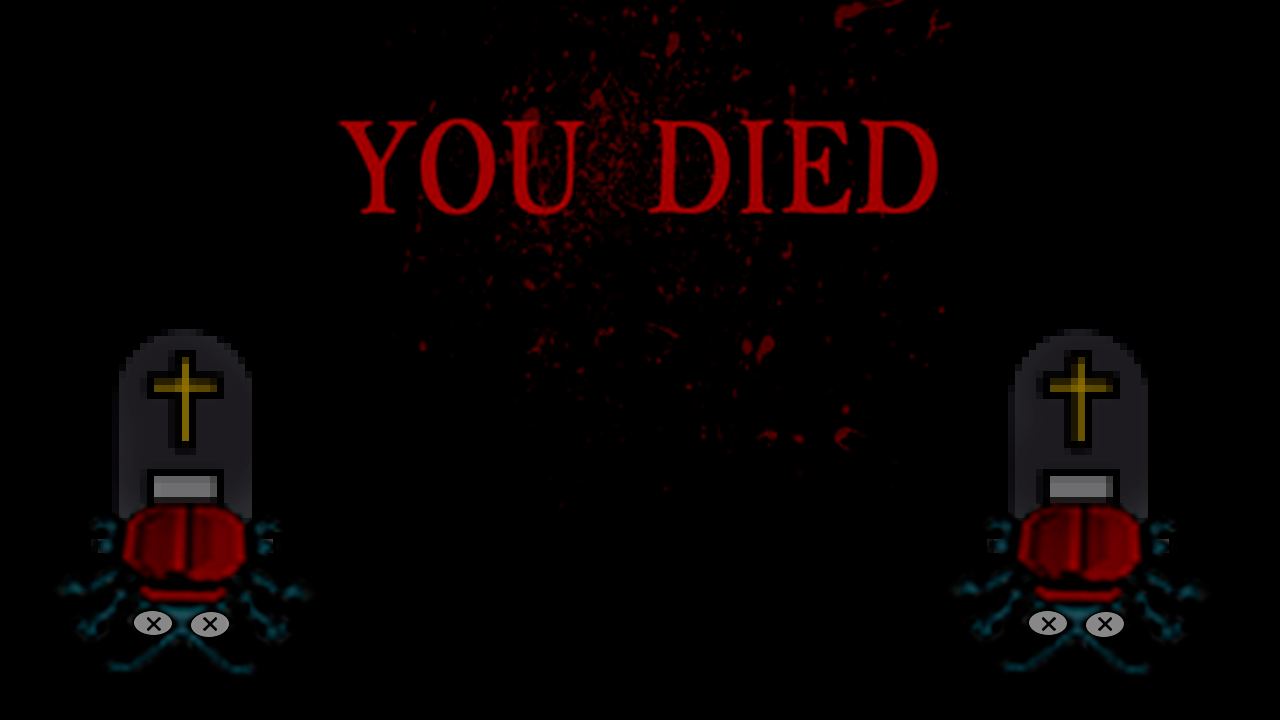
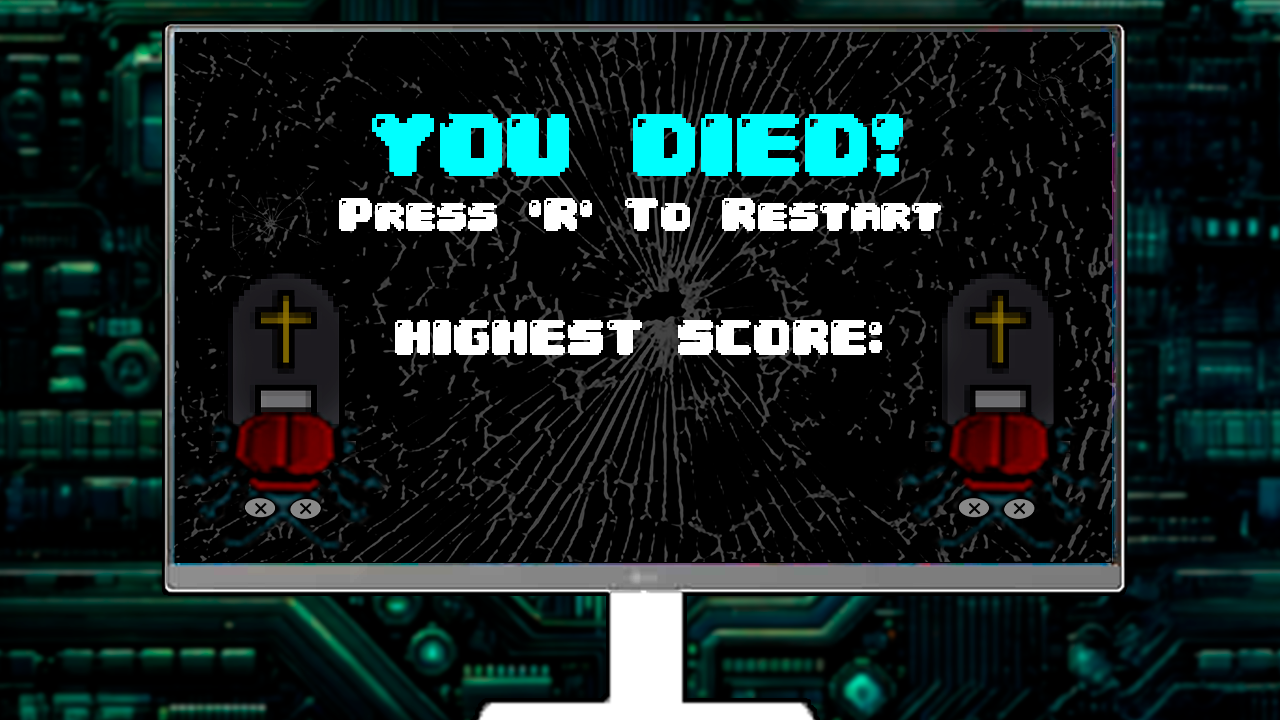
updating GUI, added fall motion when collided

diff --git a/FlappyBug/FlappyBug/States/PlayingState.cs b/FlappyBug/FlappyBug/States/PlayingState.cs
@@ -13,22 +13,21 @@ public class PlayingState : AbstractState
     private Texture2D _motherboardBackground;
     private Texture2D _buis;
     private Vector2 achtergrondPositie = Vector2.Zero;
-    private Vector2 achtergrond2Positie = new Vector2(1792, 0);
-    private const int bewegingsSnelheid = 5;
+    private Vector2 achtergrond2Positie;
     private Vector2 bugpixelPositie = Vector2.Zero;
+    private const int bewegingsSnelheid = 5;
     private float verticalVelocity = 0f;  // Snelheid in de verticale richting
     private const float gravity = 0.45f;  // Zwaartekracht kracht
     private const float springHoogte = -8f;  // De kracht van het springen
     private bool isSpatiebarIngedrukt = false;
     private TimeSpan _momentLaatsteBuisAangemaakt;
     private readonly int uitersteYPositieWaarde;
-
     private TimeSpan tijdVerstreken = TimeSpan.Zero; //lokale timer die alleen telt wanneer game niet gepauzeerd is
-
     private int score = 0;
     private bool _scoreUpdated = false;
-
-    private bool _isGepauzeerd = false;
+    private bool isDood = false; // Houdt bij of de speler dood is
+    private TimeSpan doodTimer = TimeSpan.Zero; // Timer voor de valanimatie
+    private readonly TimeSpan doodAnimatieDuur = TimeSpan.FromSeconds(1); // Duur van de valanimatie
 
     public PlayingState(Game1 spel) : base(spel)
     {
@@ -36,6 +35,7 @@ public class PlayingState : AbstractState
         _buis = spel.Textures["BuisTogether"];
         _bugpixel = spel.Textures["BugPixel"];
         _motherboardBackground = spel.Textures["MotherboardBackground"];
+        achtergrond2Positie = new Vector2(_motherboardBackground.Width, 0);
     }
 
     public override void Draw(GameTime gameTime)
@@ -43,17 +43,36 @@ public class PlayingState : AbstractState
         spel.GraphicsDevice.Clear(Color.Black);
         spel.SpriteBatch.Draw(_motherboardBackground, achtergrond2Positie, Color.White);
         spel.SpriteBatch.Draw(_motherboardBackground, achtergrondPositie, Color.White);
-        spel.SpriteBatch.Draw(_bugpixel, bugpixelPositie, Color.White);
+
 
         foreach (var buisPositie in _buisPosities)
         {
             spel.SpriteBatch.Draw(_buis, buisPositie, Color.White);
-        }
-        spel.SpriteBatch.DrawString(spel.Font, score.ToString(), Vector2.Zero, Color.White);
+        }        
+        spel.SpriteBatch.Draw(_bugpixel, bugpixelPositie, Color.White);
+        spel.SpriteBatch.DrawString(spel.Font, score.ToString(), new Vector2(spel.Graphics.PreferredBackBufferWidth / 2, 50), Color.White);
     }
 
     public override void Update(GameTime gameTime)
     {
+        if (isDood)
+        {
+            // Voer de valanimatie uit
+            verticalVelocity += gravity; // Versnel de val door zwaartekracht
+            bugpixelPositie.Y += verticalVelocity;
+
+            // Tel de tijd voor de valanimatie
+            doodTimer += gameTime.ElapsedGameTime;
+
+            // Ga naar de GameoverState na de animatie
+            if (doodTimer >= doodAnimatieDuur)
+            {
+                spel.ChangeState(new GameoverState(spel));
+            }
+
+            return; // Stop verdere updates als de speler dood is
+        }
+
         if (Keyboard.GetState().IsKeyDown(Keys.Escape))
         {
             spel.ChangeState(new PausedState(spel, this)); // pauzeer
@@ -65,6 +84,14 @@ public class PlayingState : AbstractState
             bugpixelPositie = new Vector2(spel.Graphics.PreferredBackBufferWidth / 4, spel.Graphics.PreferredBackBufferHeight / 2 - _bugpixel.Height);
         }
 
+        IntroduceerZwaarteKracht(); // zwaartekracht en springen
+        BeweegAchtergrond();
+        BuizenController(gameTime);
+
+    }
+
+    public void BeweegAchtergrond()
+    {
         achtergrondPositie.X -= bewegingsSnelheid;
 
         achtergrond2Positie.X -= bewegingsSnelheid;
@@ -78,7 +105,87 @@ public class PlayingState : AbstractState
         {
             achtergrond2Positie.X = _motherboardBackground.Width;
         }
+    }
+    private void BuizenController(GameTime gt)
+    {
+        if ((tijdVerstreken - _momentLaatsteBuisAangemaakt).TotalSeconds > 1.5)
+        {
+            MaakBuizen(gt);
+        }
+        VerplaatsBuizen();
+        VerwerkBotsing();
+        VerwerkScore();
+        _buisPosities.RemoveAll(b => b.X < -_buis.Width);
+    }
 
+    private void MaakBuizen(GameTime gt)
+    {
+        Random rnd = new();
+        Vector2 nieuweBuisPositie = new Vector2(
+            spel.Graphics.PreferredBackBufferWidth,
+            (-_buis.Height / 2) + (spel.Graphics.PreferredBackBufferHeight / 2) + rnd.Next(-uitersteYPositieWaarde, uitersteYPositieWaarde) //buis komt eerst midden op het scherm en verplaatst zich dan naar boven of onder
+        );
+        _buisPosities.Add(nieuweBuisPositie);
+        _momentLaatsteBuisAangemaakt = tijdVerstreken;
+    }
+    private void VerplaatsBuizen()
+    {
+        for (int i = 0; i < _buisPosities.Count; i++)
+        {
+            _buisPosities[i] = _buisPosities[i] with { X = _buisPosities[i].X - bewegingsSnelheid };
+        }
+    }
+    private void VerwerkBotsing()
+    {
+        Rectangle bugRechthoek = new(
+            (int)bugpixelPositie.X, (int)bugpixelPositie.Y,
+            _bugpixel.Width, _bugpixel.Height
+        );
+
+        for (int i = 0; i < _buisPosities.Count; i++)
+        {
+            Rectangle buisRechthoekBovenkant = new(
+                (int)_buisPosities[i].X, (int)_buisPosities[i].Y,
+                _buis.Width, _buis.Height / 2 - 90
+            );
+            Rectangle buisRechthoekOnderkant = new(
+                (int)_buisPosities[i].X, (int)_buisPosities[i].Y + _buis.Height / 2 + 90,
+                _buis.Width, _buis.Height
+            );
+            if (bugRechthoek.Intersects(buisRechthoekBovenkant) || bugRechthoek.Intersects(buisRechthoekOnderkant))
+            {
+                if (score > spel.HighScore)
+                {
+                    spel.HighScore = score;
+                }
+
+                // Activeer de dood toestand
+                isDood = true;
+                verticalVelocity = 0f; // Reset de verticale snelheid
+                doodTimer = TimeSpan.Zero; // Reset de dood timer
+            }
+        }
+    }
+    private void VerwerkScore()
+    {
+        if (_buisPosities.Count > 0)
+        {
+            if (bugpixelPositie.X > _buisPosities[0].X + _buis.Width && !_scoreUpdated)
+            {
+                score += 1;
+                _scoreUpdated = true; // voorkomen dat score meerdere keren wordt verhoogd
+            }
+
+            // reset wanneer de bugpixel weer in de buurt van de buis komt
+            if (bugpixelPositie.X <= _buisPosities[0].X + _buis.Width)
+            {
+                _scoreUpdated = false;
+            }
+        }
+    }
+
+    public void IntroduceerZwaarteKracht()
+    {
         // Controleer of we springen als de spatiebalk ingedrukt is
         if (Keyboard.GetState().IsKeyDown(Keys.Space) && !isSpatiebarIngedrukt && (bugpixelPositie.Y > _bugpixel.Height))
         {
@@ -116,83 +223,5 @@ public class PlayingState : AbstractState
             verticalVelocity = 0f;  // Stop met vallen als de bugpixel de onderkant bereikt
         }
 
-        BuizenController(gameTime);
-
-    }
-    
-
-    private void BuizenController(GameTime gt)
-    {
-        if ((tijdVerstreken - _momentLaatsteBuisAangemaakt).TotalSeconds > 1.5)
-        {
-            MaakBuizen(gt);
-        }
-        VerplaatsBuizen();
-        VerwerkBotsing();
-        VerwerkScore();
-        _buisPosities.RemoveAll(b => b.X < -_buis.Width);
-    }
-
-    private void MaakBuizen(GameTime gt)
-    {
-        Random rnd = new();
-        Vector2 nieuweBuisPositie = new Vector2(
-            spel.Graphics.PreferredBackBufferWidth,
-            (-_buis.Height / 2) + (spel.Graphics.PreferredBackBufferHeight / 2) + rnd.Next(-uitersteYPositieWaarde, uitersteYPositieWaarde) //buis komt eerst midden op het scherm en verplaatst zich dan naar boven of onder
-        );
-        _buisPosities.Add(nieuweBuisPositie);
-        _momentLaatsteBuisAangemaakt = tijdVerstreken;
-    }
-    private void VerplaatsBuizen()
-    {
-        for (int i = 0; i < _buisPosities.Count; i++)
-        {
-            _buisPosities[i] = _buisPosities[i] with { X = _buisPosities[i].X - bewegingsSnelheid };
-        }
-    }
-    private void VerwerkBotsing()
-    {
-
-        Rectangle bugRechthoek = new(
-            (int)bugpixelPositie.X, (int)bugpixelPositie.Y,
-            _bugpixel.Width, _bugpixel.Height
-        );
-
-        for (int i = 0; i < _buisPosities.Count; i++)
-        {
-            Rectangle buisRechthoekBovenkant = new(
-                (int)_buisPosities[i].X, (int)_buisPosities[i].Y,
-                _buis.Width, _buis.Height / 2 - 90
-            );
-            Rectangle buisRechthoekOnderkant = new(
-                (int)_buisPosities[i].X, (int)_buisPosities[i].Y + _buis.Height / 2 + 90,
-                _buis.Width, _buis.Height
-            );
-            if (bugRechthoek.Intersects(buisRechthoekBovenkant) || bugRechthoek.Intersects(buisRechthoekOnderkant))
-            {
-                if (score > spel.HighScore)
-                {
-                    spel.HighScore = score;
-                }
-                spel.ChangeState(new GameoverState(spel));
-            }
-        }
-    }
-    private void VerwerkScore()
-    {
-        if (_buisPosities.Count > 0)
-        {
-            if (bugpixelPositie.X > _buisPosities[0].X + _buis.Width && !_scoreUpdated)
-            {
-                score += 1;
-                _scoreUpdated = true; // voorkomen dat score meerdere keren wordt verhoogd
-            }
-
-            // reset wanneer de bugpixel weer in de buurt van de buis komt
-            if (bugpixelPositie.X <= _buisPosities[0].X + _buis.Width)
-            {
-                _scoreUpdated = false;
-            }
-        }
     }
 }

diff --git a/FlappyBug/FlappyBug/States/StartscreenState.cs b/FlappyBug/FlappyBug/States/StartscreenState.cs
@@ -4,25 +4,17 @@ using Microsoft.Xna.Framework;
 using Microsoft.Xna.Framework.Graphics;
 using Microsoft.Xna.Framework.Input;
 
-public class StartscreenState : AbstractState
+public class StartscreenState(Game1 spel) : AbstractState(spel)
 {
-    private Vector2 _startscreenPositie = Vector2.Zero;
     private float rotationAngle;
-    private Vector2 spritePosition;
     private Vector2 spriteOrigin;
-
-    public StartscreenState(Game1 spel) : base(spel)
-    {
-
-    }
 
     public override void Draw(GameTime gameTime)
     {
         spel.GraphicsDevice.Clear(Color.Black);
-        spel.SpriteBatch.Draw(spel.Textures["BugPixel"], new Vector2(spel.Graphics.PreferredBackBufferWidth / 2, spel.Graphics.PreferredBackBufferHeight / 2), null, Color.White, rotationAngle, spriteOrigin, 1.0f, SpriteEffects.None, 0f); ;
-        spel.SpriteBatch.DrawString(spel.Font, "FLAPPY BUG", new Vector2(spel.Graphics.PreferredBackBufferWidth / 3, spel.Graphics.PreferredBackBufferHeight / 2), Color.DarkOrange);
-        spel.SpriteBatch.DrawString(spel.Font, "PRESS ENTER BUTTON", new Vector2(spel.Graphics.PreferredBackBufferWidth / 3, (spel.Graphics.PreferredBackBufferHeight / 2) + 50), Color.DarkOrange);
-        spel.SpriteBatch.DrawString(spel.Font, "HIGHSCORE " + spel.HighScore.ToString(), new Vector2(spel.Graphics.PreferredBackBufferWidth / 3, (spel.Graphics.PreferredBackBufferHeight / 2) + 100), Color.DarkOrange);
+        spel.SpriteBatch.Draw(spel.Textures["StartBackground"], Vector2.Zero, Color.White);
+        spel.SpriteBatch.Draw(spel.Textures["BugPixel"], new Vector2(spel.Graphics.PreferredBackBufferWidth / 3 * 2, spel.Graphics.PreferredBackBufferHeight / 6), null, Color.White, rotationAngle, spriteOrigin, 1.0f, SpriteEffects.None, 0f); ;
+        spel.SpriteBatch.DrawString(spel.Font, spel.HighScore.ToString(), new Vector2(792, 510), Color.White);
     }
 
     public override void Update(GameTime gameTime)

diff --git a/FlappyBug/FlappyBug/States/PausedState.cs b/FlappyBug/FlappyBug/States/PausedState.cs
@@ -3,20 +3,16 @@ using FlappyBug.States;
 using Microsoft.Xna.Framework;
 using Microsoft.Xna.Framework.Input;
 
-public class PausedState : AbstractState
+public class PausedState(Game1 spel, PlayingState playingState) : AbstractState(spel)
 {
-
-    private PlayingState _previousState;
-    public PausedState(Game1 spel, PlayingState playingState) : base(spel)
-    {
-        _previousState = playingState;
-    }
+    private Color _stringColor = new Color(0, 255, 255);
+    private PlayingState _previousState = playingState;
 
     public override void Draw(GameTime gameTime)
     {
-        spel.SpriteBatch.Draw(spel.Textures["StartBackground"], Vector2.Zero, Color.White);
-        spel.SpriteBatch.DrawString(spel.Font, "PAUSED", new Vector2(spel.Graphics.PreferredBackBufferWidth / 3, spel.Graphics.PreferredBackBufferHeight / 2), Color.DarkOrange);
-        spel.SpriteBatch.DrawString(spel.Font, "PRESS ENTER BUTTON TO CONTINUE", new Vector2(spel.Graphics.PreferredBackBufferWidth / 3, (spel.Graphics.PreferredBackBufferHeight / 2) + 50), Color.DarkOrange);
+        _previousState.Draw(gameTime);
+        spel.SpriteBatch.DrawString(spel.Font, "PAUSED", new Vector2(500, 300), _stringColor);
+        spel.SpriteBatch.DrawString(spel.Font, "PRESS \'ENTER\' TO CONTINUE", new Vector2(250, 350), _stringColor);
     }
 
     public override void Update(GameTime gameTime)

diff --git a/FlappyBug/FlappyBug/States/GameoverState.cs b/FlappyBug/FlappyBug/States/GameoverState.cs
@@ -3,22 +3,19 @@ using FlappyBug.States;
 using Microsoft.Xna.Framework;
 using Microsoft.Xna.Framework.Input;
 
-public class GameoverState : AbstractState
+public class GameoverState(Game1 spel) : AbstractState(spel)
 {
-    public GameoverState(Game1 spel) : base(spel)
-    {
-    }
-
     public override void Draw(GameTime gameTime)
     {
-        spel.SpriteBatch.Draw(spel.Textures["BugDead"], Vector2.Zero, Color.White);       
+        spel.SpriteBatch.Draw(spel.Textures["BugDead"], Vector2.Zero, Color.White);
+        spel.SpriteBatch.DrawString(spel.Font, spel.HighScore.ToString(), new Vector2(spel.Graphics.PreferredBackBufferWidth / 2, 380), Color.White);
     }
 
     public override void Update(GameTime gameTime)
     {
-        if(Keyboard.GetState().IsKeyDown(Keys.S))
+        if (Keyboard.GetState().IsKeyDown(Keys.R))
         {
-            spel.ChangeState(new StartscreenState(spel));
+            spel.ChangeState(new PlayingState(spel));
         }
     }
 }

diff --git a/FlappyBug/FlappyBug/States/AbstractState.cs b/FlappyBug/FlappyBug/States/AbstractState.cs
@@ -2,13 +2,9 @@ using Microsoft.Xna.Framework;
 
 namespace FlappyBug.States;
 
-public abstract class AbstractState {
-    protected Game1 spel;
-    
-    protected AbstractState(Game1 spel) {
-        this.spel = spel;
-    }
-
+public abstract class AbstractState(Game1 spel)
+{
+    protected Game1 spel = spel;
     public abstract void Update(GameTime gameTime);
     public abstract void Draw(GameTime gameTime);
 }

diff --git a/FlappyBug/FlappyBug/Game1.cs b/FlappyBug/FlappyBug/Game1.cs
@@ -1,9 +1,7 @@
-using System;
-using System.Collections.Generic;
+using System.Collections.Generic;
 using FlappyBug.States;
 using Microsoft.Xna.Framework;
 using Microsoft.Xna.Framework.Graphics;
-using Microsoft.Xna.Framework.Input;
 
 namespace FlappyBug
 {
